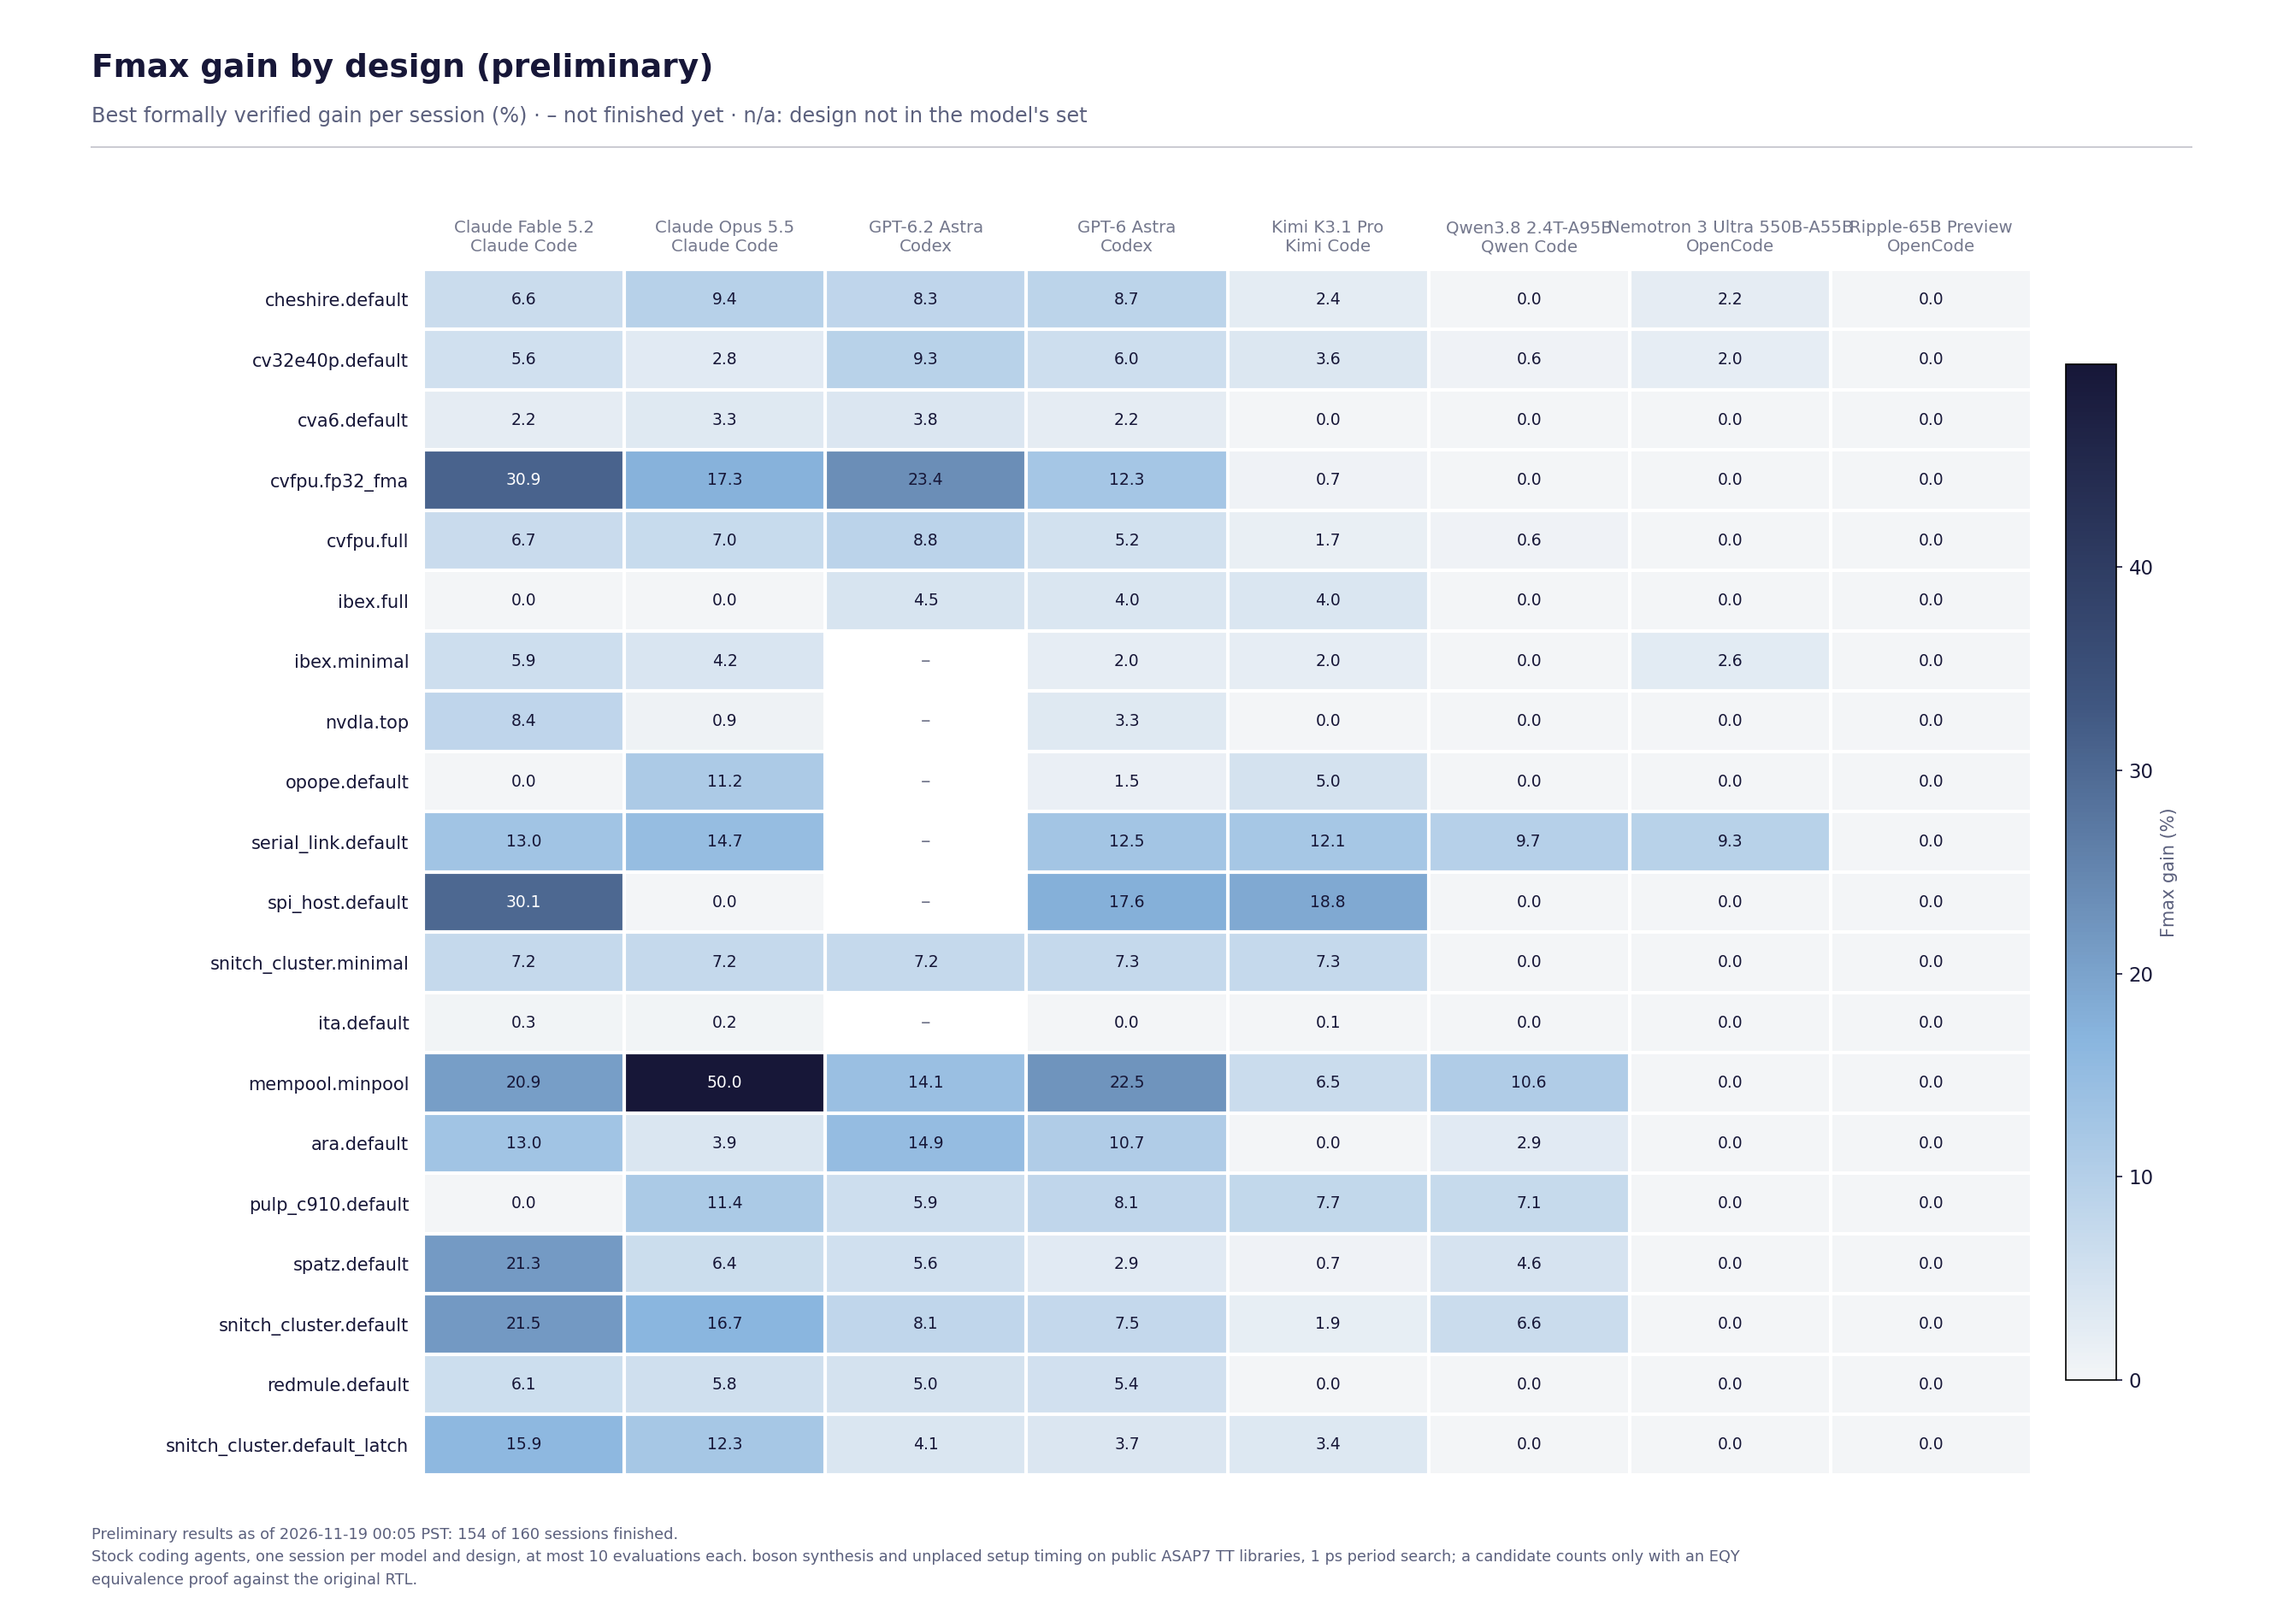
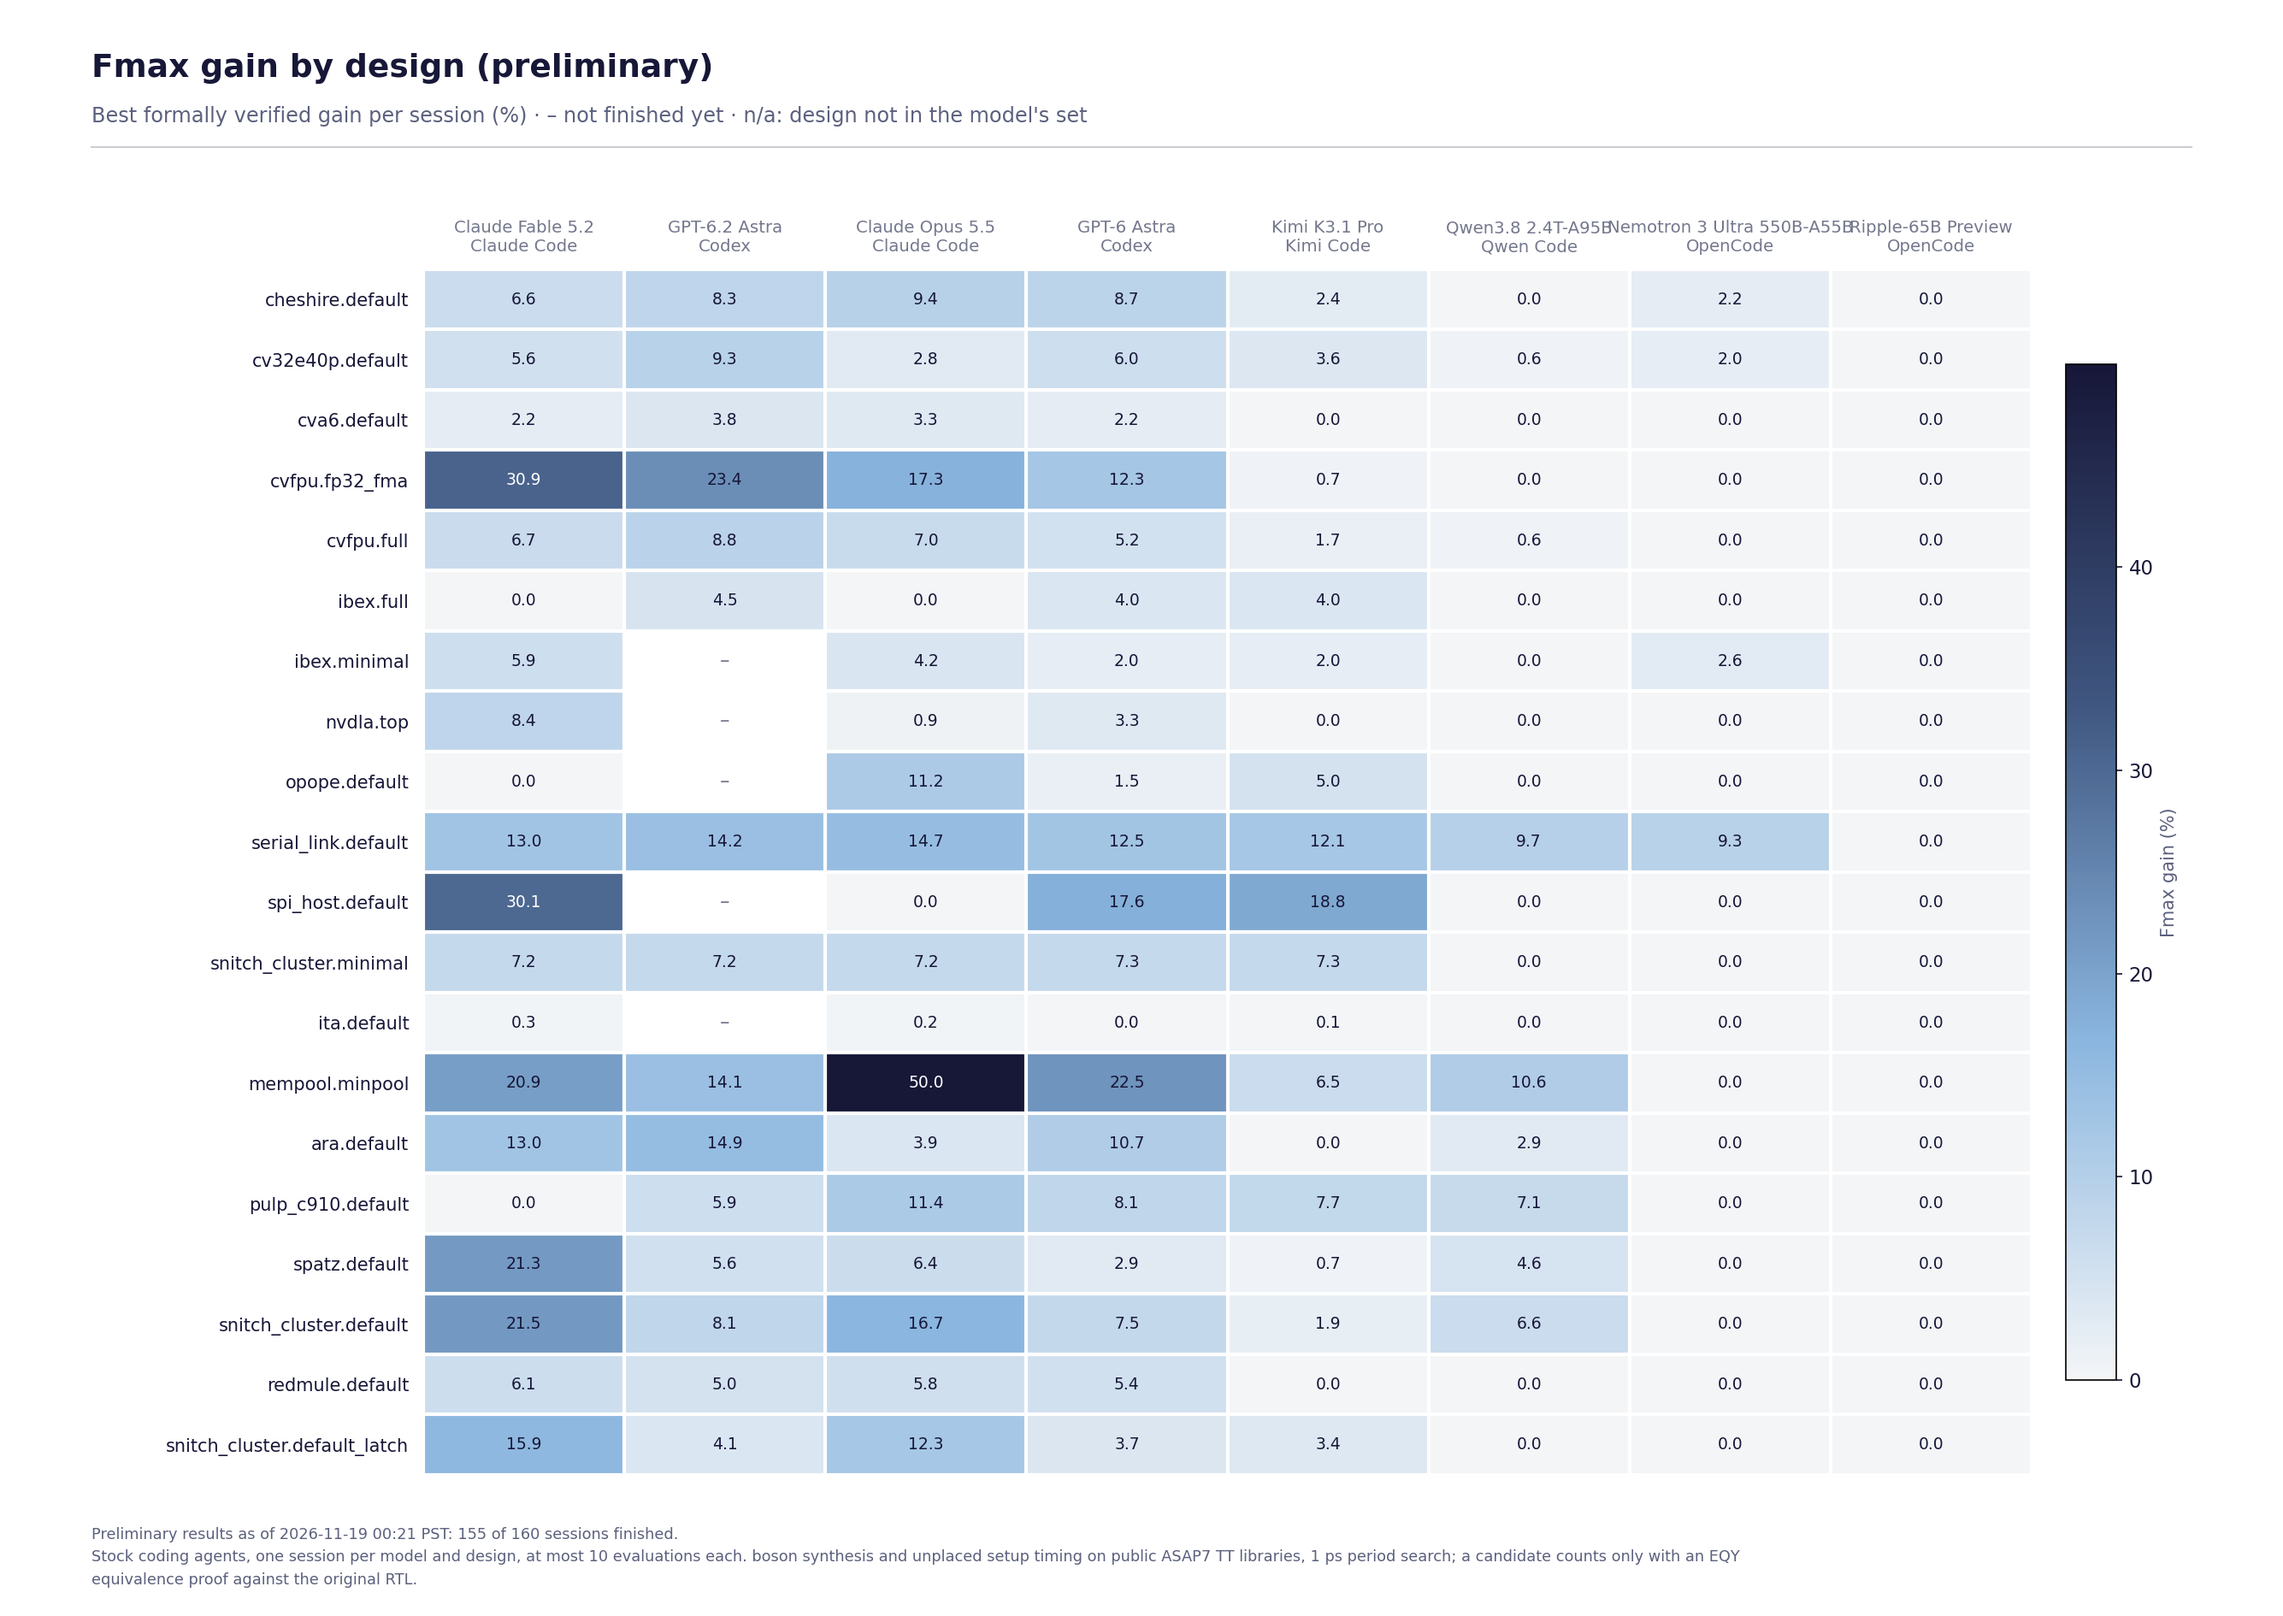
Refresh preliminary results: 155 of 160 sessions finished
Data as of 2026-11-19 00:21 PST.

diff --git a/README.md b/README.md
@@ -22,7 +22,7 @@ accepted only when it is proven equivalent and faster than the session's best so
 ## Results
 
 <!-- results:start -->
-**Status:** 154 of 160 sessions finished (8 models, 20 designs), as of 2026-11-19 00:05 PST. 1 interrupted attempts are excluded from these results while awaiting a valid replacement.
+**Status:** 155 of 160 sessions finished (8 models, 20 designs), as of 2026-11-19 00:21 PST. 1 interrupted attempts are excluded from these results while awaiting a valid replacement.
 
 ### Coverage
 
@@ -34,7 +34,7 @@ accepted only when it is proven equivalent and faster than the session's best so
 | Qwen3.8 2.4T-A95B | Qwen (Alibaba) | Qwen Code 0.27.1 | OpenRouter, one pinned provider (SiliconFlow, FP8) | 20 / 20 |
 | Ripple-65B Preview | Ricursive AI | OpenCode 1.19.5 | Self-hosted (SGLang 0.5.19, BF16) for its first 15 designs; OpenRouter pinned to PrimeIntellect (BF16) for later sessions | 20 / 20 |
 | Nemotron 3 Ultra 550B-A55B | NVIDIA | OpenCode 1.19.5 | OpenRouter, pinned to DeepInfra (FP4), fallbacks disabled | 20 / 20 |
-| GPT-6.2 Astra | OpenAI | Codex 0.169.1 | Official CLI signed in to a subscription; reasoning effort medium, as GPT-6 Astra ran | 14 / 20 |
+| GPT-6.2 Astra | OpenAI | Codex 0.169.1 | Official CLI signed in to a subscription; reasoning effort medium, as GPT-6 Astra ran | 15 / 20 |
 | Claude Opus 5.5 | Anthropic | Claude Code 2.1.322 | Official CLI signed in to a subscription | 20 / 20 |
 
 ### Results by model
@@ -42,8 +42,8 @@ accepted only when it is proven equivalent and faster than the session's best so
 | Model | Harness | Designs finished | Fmax gain (geomean) | Normalized score | Designs improved | Mean evaluations | Candidates not proven |
 |---|---|---:|---:|---:|---:|---:|---:|
 | Claude Fable 5.2 | Claude Code | 20 / 20 | +10.39% | 74.0 | 17 / 20 | 5.0 | 42% (42 / 99) |
+| GPT-6.2 Astra | Codex | 15 / 20 | +9.03% | 74.1 | 15 / 15 | 8.7 | 53% (70 / 131) |
 | Claude Opus 5.5 | Claude Code | 20 / 20 | +8.78% | 65.3 | 18 / 20 | 4.8 | 42% (40 / 95) |
-| GPT-6.2 Astra | Codex | 14 / 20 | +8.67% | 72.4 | 14 / 14 | 8.6 | 55% (66 / 121) |
 | GPT-6 Astra | Codex | 20 / 20 | +7.04% | 54.0 | 19 / 20 | 8.4 | 27% (45 / 169) |
 | Kimi K3.1 Pro | Kimi Code | 20 / 20 | +3.81% | 32.4 | 16 / 20 | 5.9 | 63% (74 / 118) |
 | Qwen3.8 2.4T-A95B | Qwen Code | 20 / 20 | +2.08% | 11.8 | 8 / 20 | 2.1 | 67% (28 / 42) |
@@ -65,7 +65,7 @@ Fmax gain is the geometric mean of each finished session's Fmax ratio (baseline 
 | `ibex.minimal` | 0.716 | 7 | 0.676 | +5.92% | Claude Fable 5.2 |
 | `nvdla.top` | 0.789 | 7 | 0.728 | +8.38% | Claude Fable 5.2 |
 | `opope.default` | 0.857 | 7 | 0.771 | +11.15% | Claude Opus 5.5 |
-| `serial_link.default` | 0.305 | 7 | 0.266 | +14.66% | Claude Opus 5.5 |
+| `serial_link.default` | 0.305 | 8 | 0.266 | +14.66% | Claude Opus 5.5 |
 | `spi_host.default` | 0.475 | 7 | 0.365 | +30.14% | Claude Fable 5.2 |
 | `snitch_cluster.minimal` | 1.288 | 8 | 1.200 | +7.33% | GPT-6 Astra, Kimi K3.1 Pro |
 | `ita.default` | 0.903 | 7 | 0.900 | +0.33% | Claude Fable 5.2 |
@@ -81,9 +81,9 @@ Fmax gain is the geometric mean of each finished session's Fmax ratio (baseline 
 
 Counts over every finished session of the models above. They describe what happened; with one session per model and design they do not establish causes or rankings.
 
-- 770 candidates evaluated: 220 accepted, 155 proven equivalent but not faster than the session's best, 387 not proven (281 with a partition EQY could not prove, 42 at the proof deadline, 58 over the proof memory budget, 6 for another reason), 8 failed to compile or measure.
-- Of 154 finished sessions, 101 ended with the agent finishing on its own, 51 ran to the time budget and 2 ended with an agent error.
-- Sessions used 5.0 of the 10 allowed evaluations on average; 28 used all 10.
+- 780 candidates evaluated: 224 accepted, 157 proven equivalent but not faster than the session's best, 391 not proven (285 with a partition EQY could not prove, 42 at the proof deadline, 58 over the proof memory budget, 6 for another reason), 8 failed to compile or measure.
+- Of 155 finished sessions, 102 ended with the agent finishing on its own, 51 ran to the time budget and 2 ended with an agent error.
+- Sessions used 5.0 of the 10 allowed evaluations on average; 29 used all 10.
 - Largest single gain so far: `mempool.minpool` by Claude Opus 5.5, 2.869 ns to 1.913 ns (+49.97% Fmax).
 <!-- results:end -->
 
